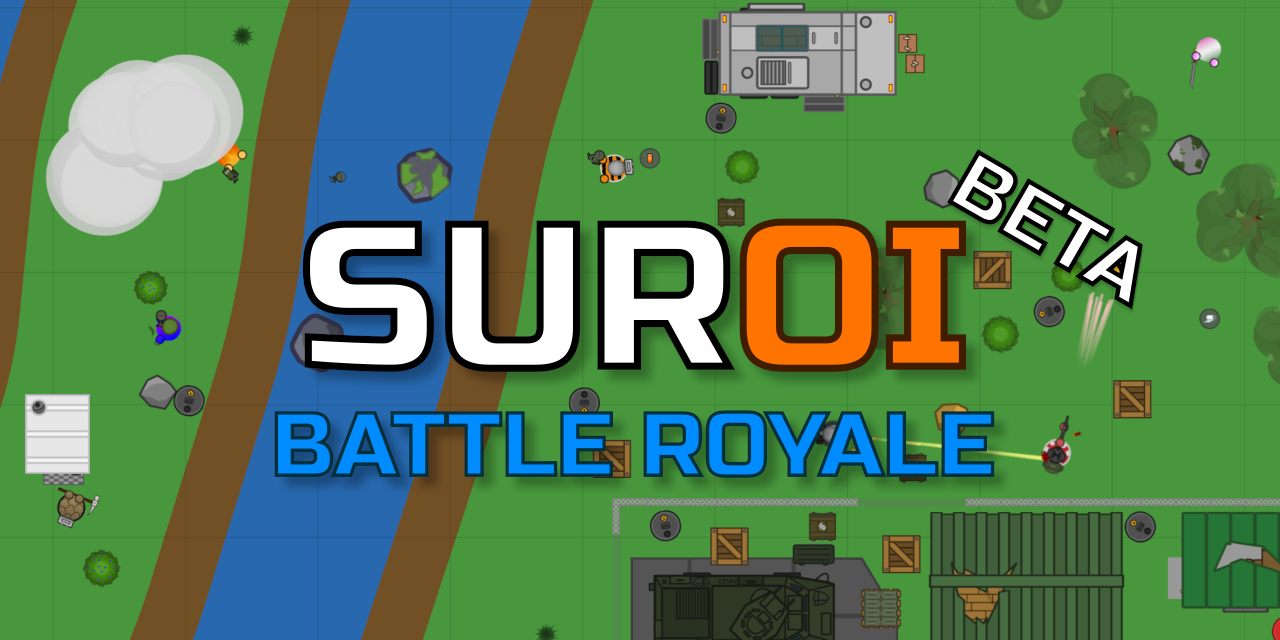
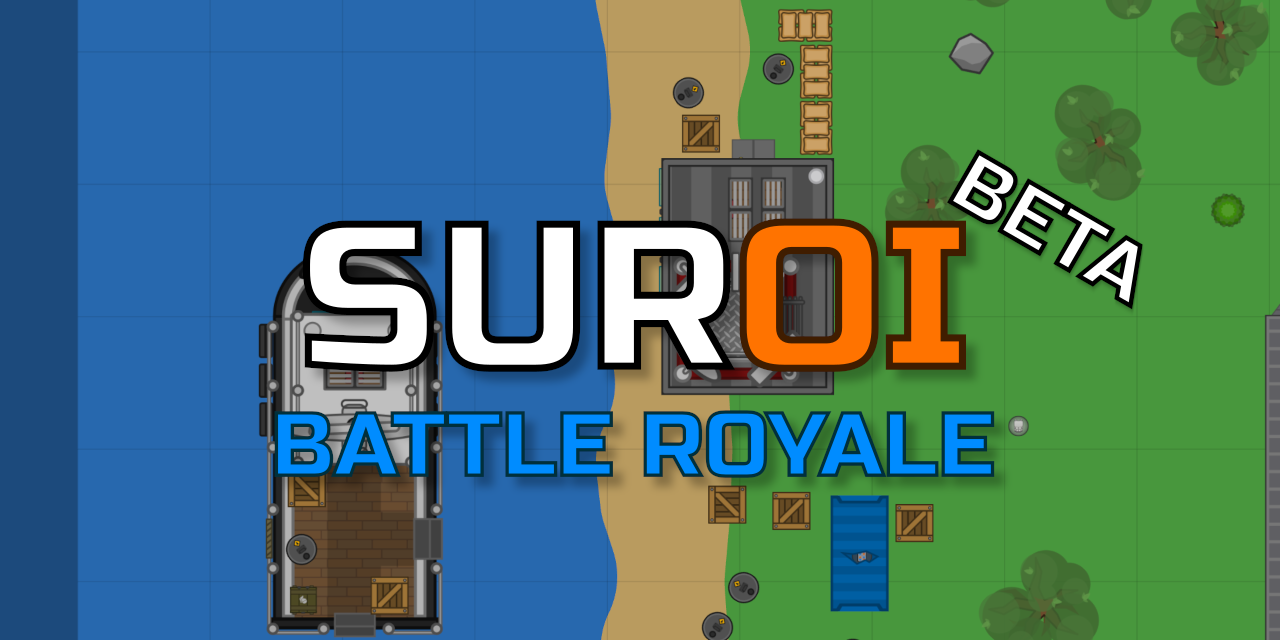
feat: update news, menu background, changelog

diff --git a/client/src/scripts/news/newsPosts.ts b/client/src/scripts/news/newsPosts.ts
@@ -2,6 +2,47 @@
 import { type NewsPost } from "./newsHelper";
 
 export const news: NewsPost[] = [
+      {
+        date: 1708892369000,
+        author: "HAZEL",
+        title: "A Sailor's Dream",
+        bannerImage: "../img/news/v0.16.0.png",
+        content: `We're back with new guns, structures, and more for ye landlubbers to check out! Two new powerful weapons are available in golden airdrops, and a new sniper has joined the ranks. Where do you find it? Why, in the captain's tugboat, of course! The soggy pants will be worth it.<br><br>
+
+Lily pads, river crates, bridges, and more are making an appearance this update, as well as a multitude of changes and bug fixes to make your experience better. Duos are coming in the next update, so stay tuned!`,
+        longContent: `<h2>Suroi v0.16.0</h2>
+<h3>New features</h3>
+<ul>
+  <li>New structures: tugboat, sea traffic control, bridges.</li>
+  <li>New guns: Model 89 (a DMR), CZ-600 (a sniper), and PP-19 (a suppressed SMG).</li>
+  <li>New crate: river crate.</li>
+  <li>New obstacles: lily pads.</li>
+  <li>New crate: grenade box. Sometimes spawns in place of boxes in the warehouse.</li>
+  <li>Added win and death emotes.</li>
+  <li>New skin: Distant Shores.</li>
+  <li>Added a loading screen.</li>
+</ul>
+
+<h3>Changes</h3>
+<ul>
+  <li>Scope is now reduced to 1x inside of smoke.</li>
+  <li>Added quit button to spectate menu.</li>
+  <li>Nerfed HP18.</li>
+  <li>Added 12.7mm and Curadell (radio ammo) to ammo crates.</li>
+  <li>Made rivers slightly narrower.</li>
+  <li>Added a strap to the M1 Garand loot image, to make it easier to tell apart from the Mosin.</li>
+  <li>New Curadell loot image.</li>
+  <li>Improved mobile home and porta potty footstep hitboxes.</li>
+  <li>Removed Fireball and Blueberry Smoothie skins.</li>
+</ul>
+
+<h3>Bug fixes</h3>
+<ul>
+  <li>Fixed grenades sometimes going to the right on mobile regardless of joystick position.</li>
+  <li>Fixed not being able to cycle throwables by clicking/tapping on the slot.</li>
+  <li>Fixed aim line not showing up on mobile.</li>
+</ul>`
+    },
     {
         date: 1705262400000,
         author: "HAZEL",

diff --git a/client/changelog/index.html b/client/changelog/index.html
@@ -29,6 +29,28 @@
   <pre>
 # Changelog
 
+v0.16.0 - [2/25/2024]
+- Added 3 structures: tugboat, sea traffic control, bridges
+- Added 2 guns: Model 89, CZ-600, PP-19
+- Added river crate
+- Added lily pads
+- Added grenade box
+- Added win and death emotes
+- Added skin: Distant Shores
+- Added a loading screen
+- Scope is now reduced to 1x inside of smoke
+- Added quit button to spectate menu
+- Nerfed HP18
+- Added 12.7mm and Curadell (radio ammo) to ammo crates
+- Made rivers slightly narrower
+- Added a strap to the M1 Garand loot image, to make it easier to tell apart from the Mosin
+- New Curadell loot image
+- Improved mobile home and porta potty footstep hitboxes
+- Removed Fireball and Blueberry Smoothie skins
+- Fixed grenades sometimes going to the right on mobile regardless of joystick position
+- Fixed not being able to cycle throwables by clicking/tapping on the slot
+- Fixed aim line not showing up on mobile
+
 v0.15.0 - [1/14/2024]
 - Added frag grenades and smoke grenades
 - Added armory and mobile home
